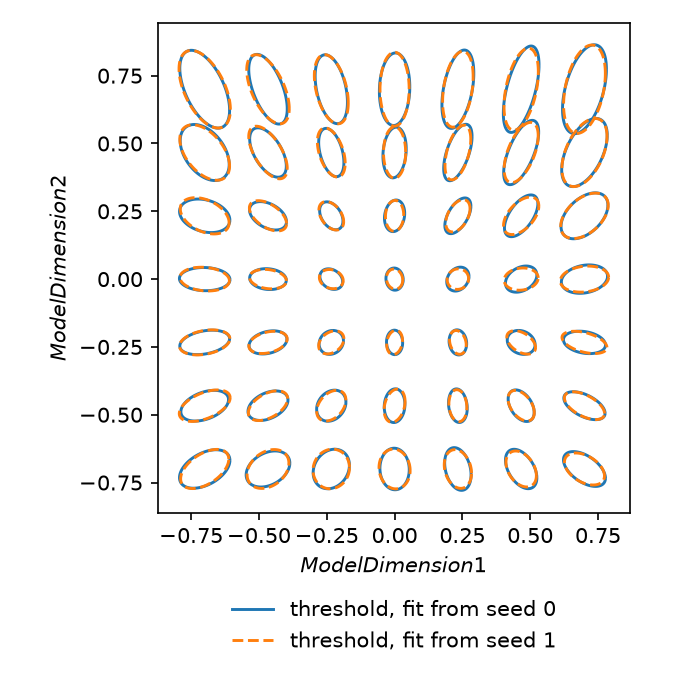
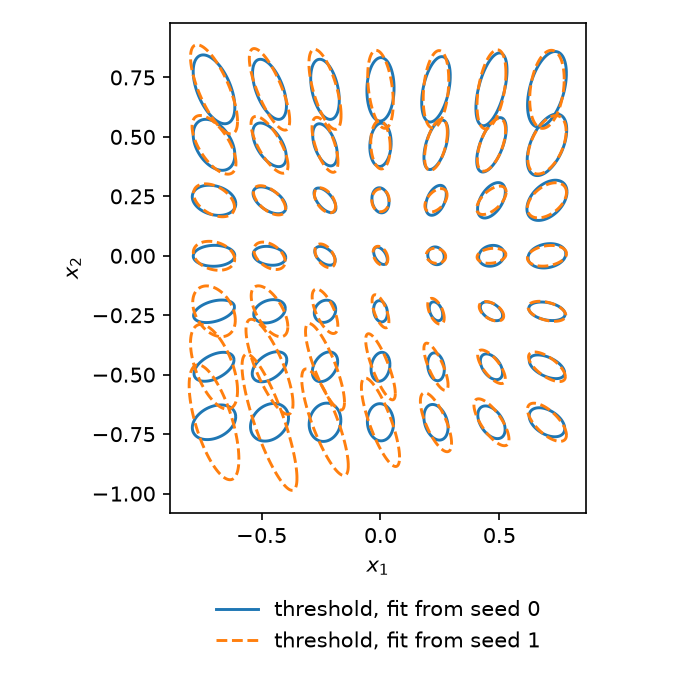
figures

diff --git a/docs/examples/wppm/fit_your_own_data.py b/docs/examples/wppm/fit_your_own_data.py
@@ -66,7 +66,7 @@ PLOTS_DIR = Path(__file__).parent / "plots"
 # --8<-- [start:modes]
 MODES = {
     "quick": {"steps": 300, "mc_fit": 20, "mc_eval": 200},  # smoke test, not converged
-    "full": {"steps": 3000, "mc_fit": 2000, "mc_eval": 2000},  # Hong et al.'s settings
+    "full": {"steps": 1500, "mc_fit": 2000, "mc_eval": 2000},  # Hong et al.'s settings
 }
 # --8<-- [end:modes]
 
@@ -242,8 +242,8 @@ def main(mode: str) -> None:
     # --8<-- [end:plot]
     ax.legend(loc="upper center", bbox_to_anchor=(0.5, -0.14), ncol=1, frameon=False)
     ax.set_aspect("equal")
-    ax.set_xlabel("$Model Dimension 1$")
-    ax.set_ylabel("$Model Dimension 2$")
+    ax.set_xlabel("$x_1$")
+    ax.set_ylabel("$x_2$")
     fig.tight_layout()
     fig.savefig(PLOTS_DIR / "own_data_thresholds.png", dpi=150)
 
